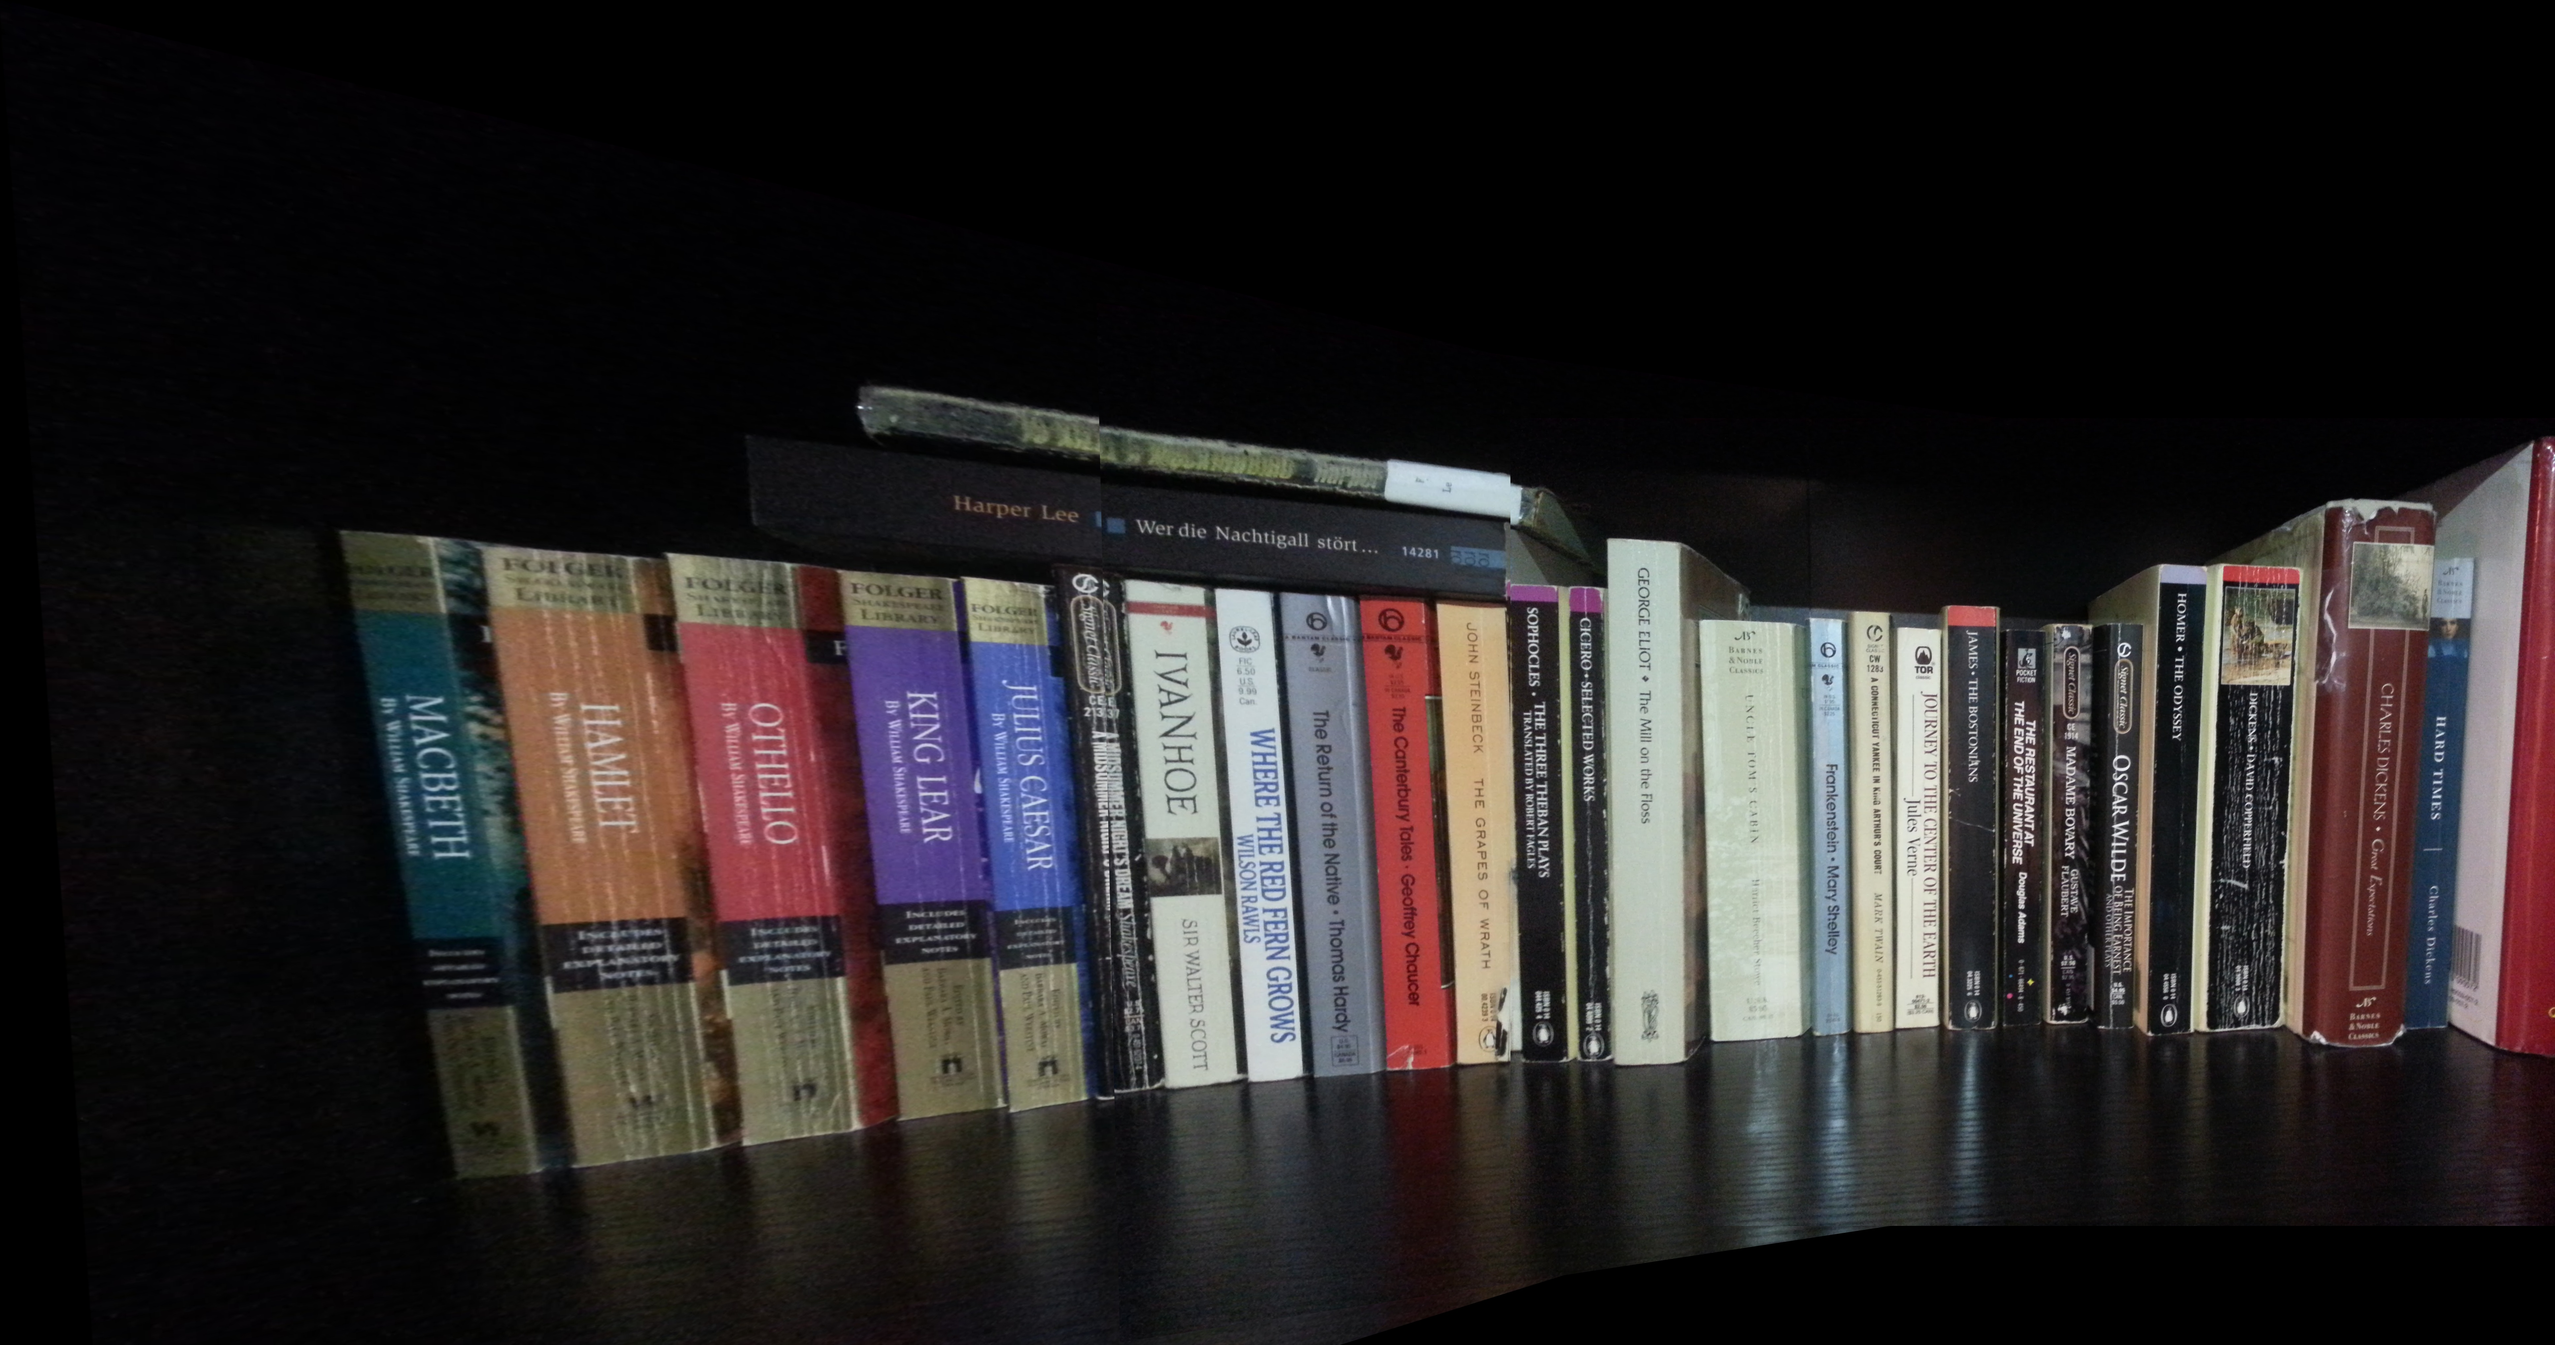
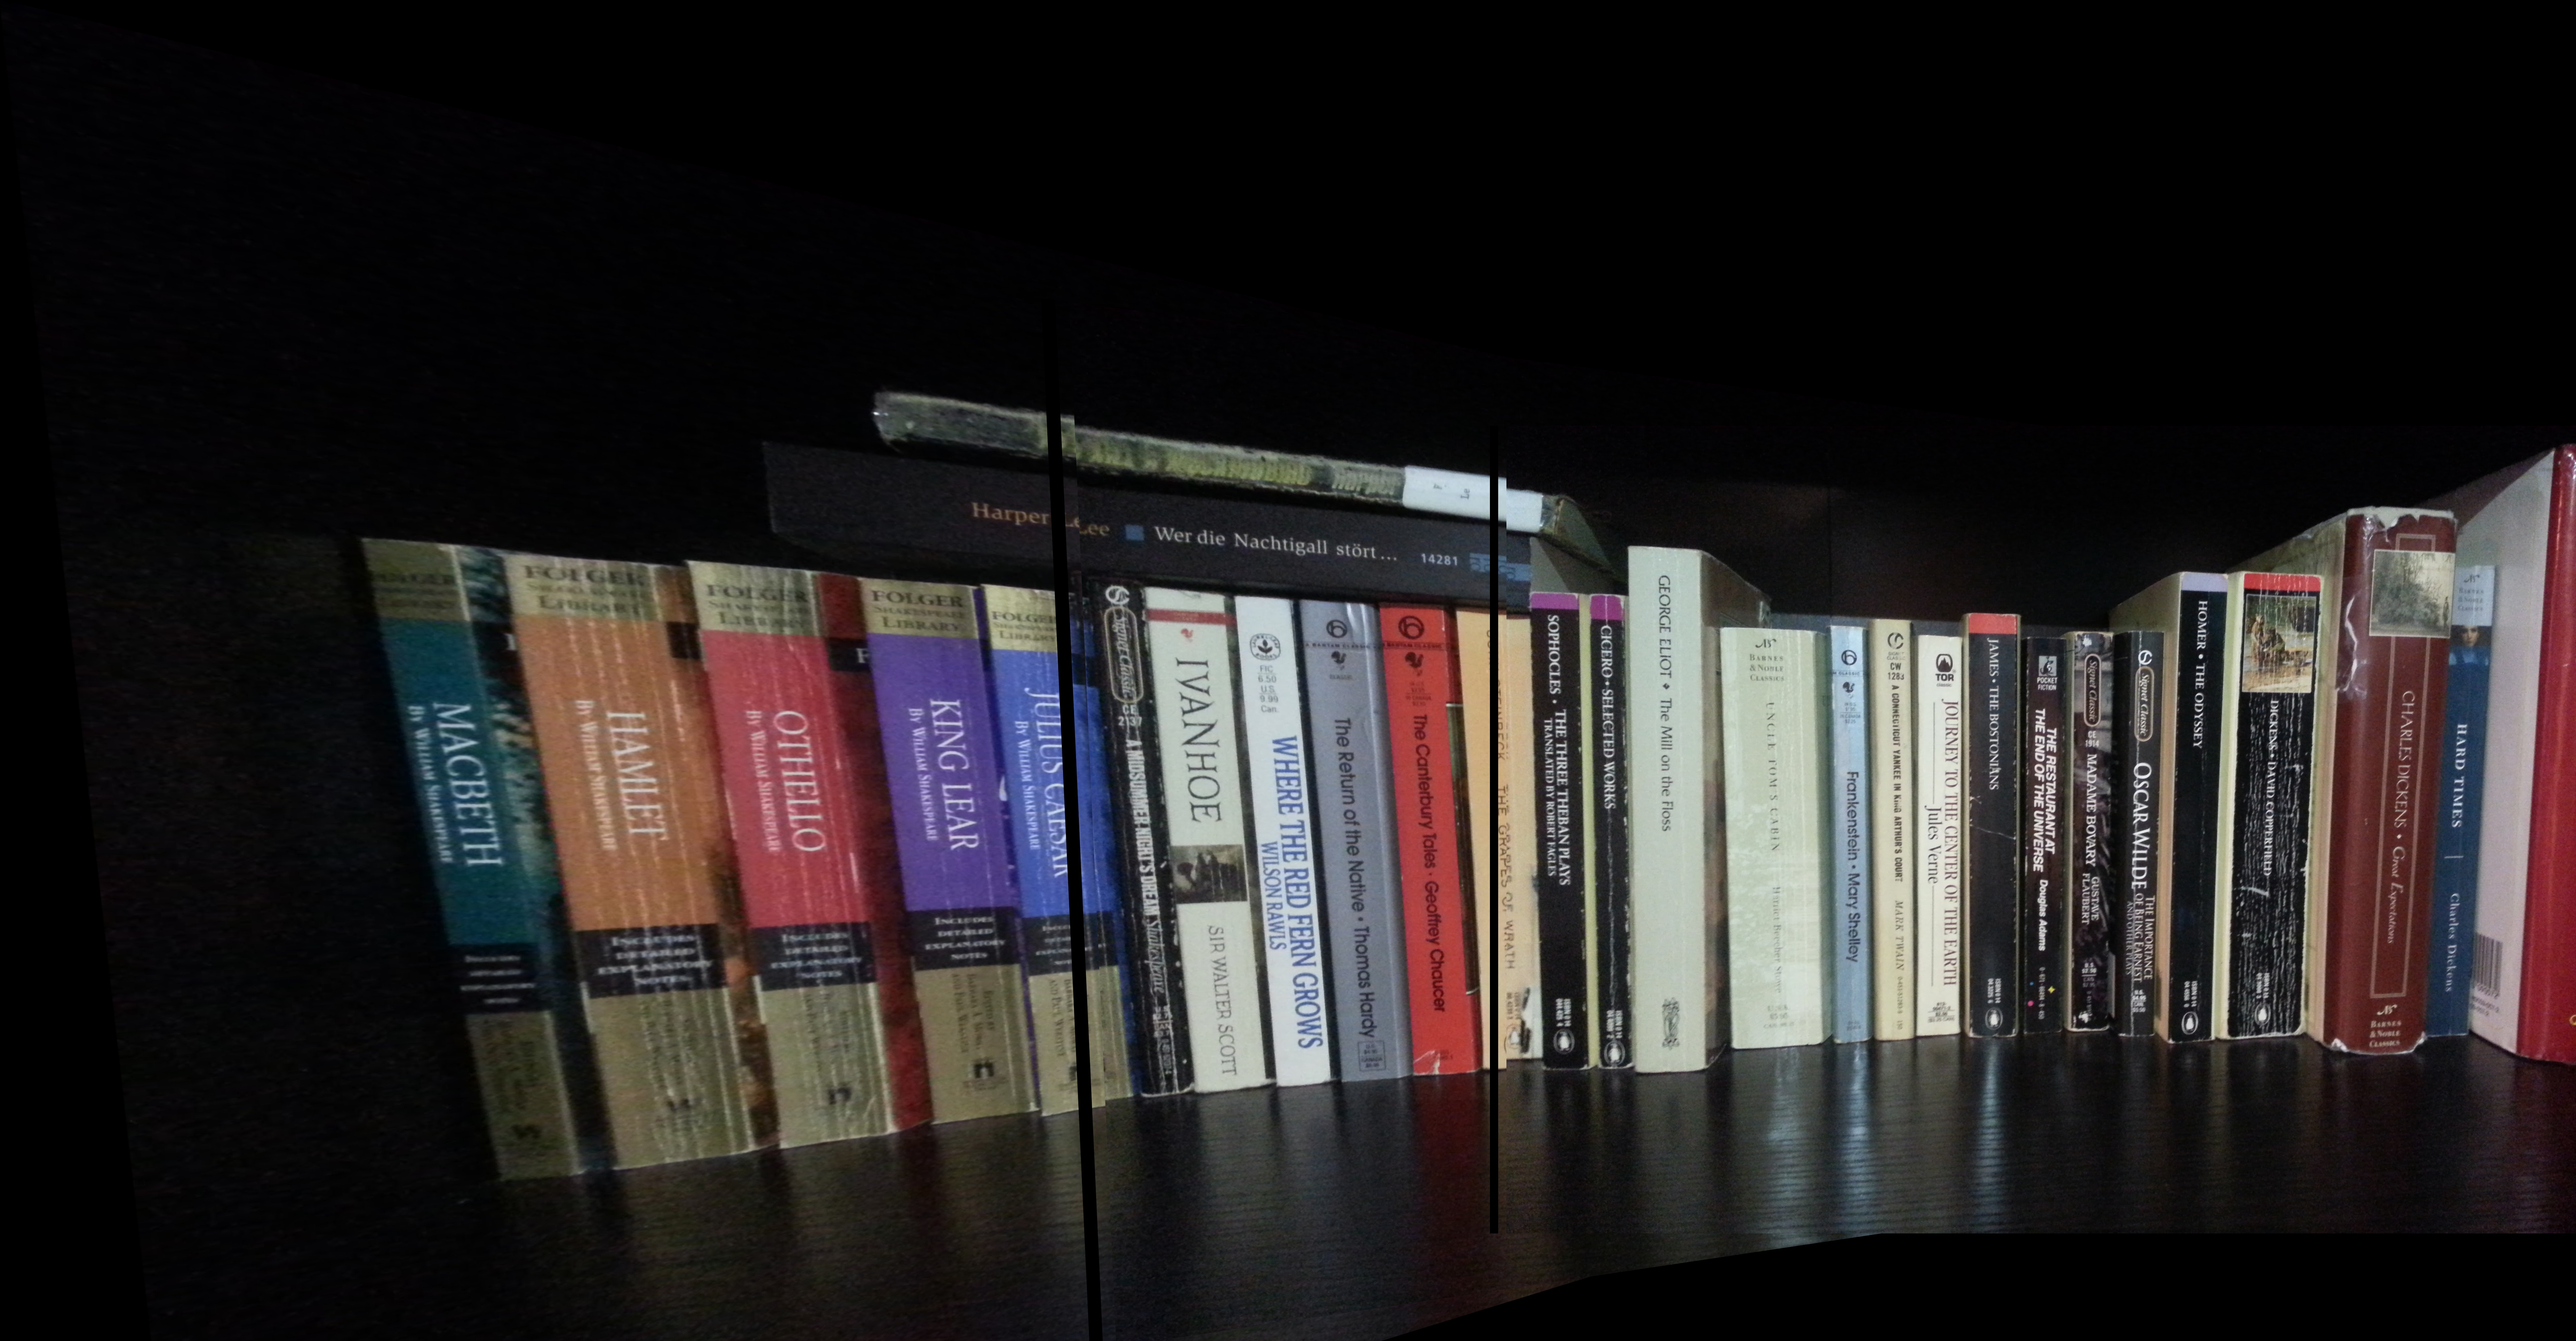
CP A8 working on blending

diff --git a/CompPhoto/Assignments/Assignment8/assignment8/assignment8.py b/CompPhoto/Assignments/Assignment8/assignment8/assignment8.py
@@ -223,29 +223,9 @@ def blendImagePair(warped_image, image_2, point):
     """
     output_image = np.copy(warped_image)
 
-    # REPLACE THIS WITH YOUR BLENDING CODE.
-    '''
-    #Instructor provided
-    output_image[point[1]:point[1] + image_2.shape[0],
-                 point[0]:point[0] + image_2.shape[1]] = image_2
-    '''
     '''
     # Find the points along the intersection of the two images
-    intersect_l = warped_image[point[1]:point[1]+image_2.shape[0], point[0]]
-    intersect_r = image_2[:,0]
-    
-    intersect = 0.5*intersect_l + 0.5*intersect_r
-    
-    output_image[point[1]:point[1] + image_2.shape[0], point[0]] = intersect
-    output_image[point[1]:point[1]+image_2.shape[0], point[0]+1:point[0]+image_2.shape[1]] = image_2[:,1:]
-
-    # I would like to blend the area around where the two images meet here using the code from a previous assignment,
-    # but the instructions says we aren't allowed to put code in anywhere other than the marked places. 
-    
-    print output_image.shape
-    '''
-    # Find the points along the intersection of the two images
-    blend_region = 100
+    blend_region = 50
     intersect_l = warped_image[point[1]:point[1]+image_2.shape[0], point[0]-blend_region:point[0]+blend_region]
     # We need to make image_2 overlap with the warped image. Take a portion of the warped image as image 2
     intersect_r = np.zeros( (image_2.shape[0], 2*blend_region, 3) )
@@ -256,9 +236,37 @@ def blendImagePair(warped_image, image_2, point):
     
     # Blend
     blend_img = run_blend(intersect_l, intersect_r, mask)
+    cv2.imwrite("test.png", blend_img)
     # Combine
     output_image[point[1]:point[1]+image_2.shape[0], point[0]-blend_region:point[0]+blend_region] = blend_img
     output_image[ point[1]:point[1]+image_2.shape[0], point[0]+blend_region:] = image_2[:,blend_region:]
+    '''
+    '''
+    extend = 25
+    temp_image = np.zeros( (image_2.shape[0], image_2.shape[1]+extend, 3) )
+    temp_image[:,0:extend] = output_image[point[1]:point[1]+image_2.shape[0],point[0]-extend:point[0]]
+    temp_image[:,extend:] = image_2
+    
+    mask = np.zeros( (temp_image.shape[0], temp_image.shape[1]) )
+    mask[:,0:extend] = np.ones( (temp_image.shape[0],extend) )
+    
+    blend_image = run_blend(temp_image, temp_image, mask)
+    cv2.imwrite('test.png', blend_image)
+    
+    output_image[point[1]:point[1]+image_2.shape[0], point[0]-extend:] = blend_image
+    '''
+    blend_region = 25
+    left = output_image[point[1]:point[1]+image_2.shape[0], point[0]-blend_region:point[0]+blend_region]
+    right = np.zeros( left.shape )
+    right[:,blend_region:] = image_2[:,0:blend_region]
+    mask = np.zeros( (left.shape[0], left.shape[1]) )
+    mask[:,0:blend_region] = np.ones( (left.shape[0], blend_region) )
+    
+    blend_img = run_blend(left, right, mask)
+    
+    output_image[point[1]:point[1]+image_2.shape[0], point[0]-blend_region:point[0]+blend_region] = blend_img
+    output_image[ point[1]:point[1]+image_2.shape[0], point[0]+blend_region:] = image_2[:,blend_region:]
+    
     
     return output_image
     # END OF FUNCTION
